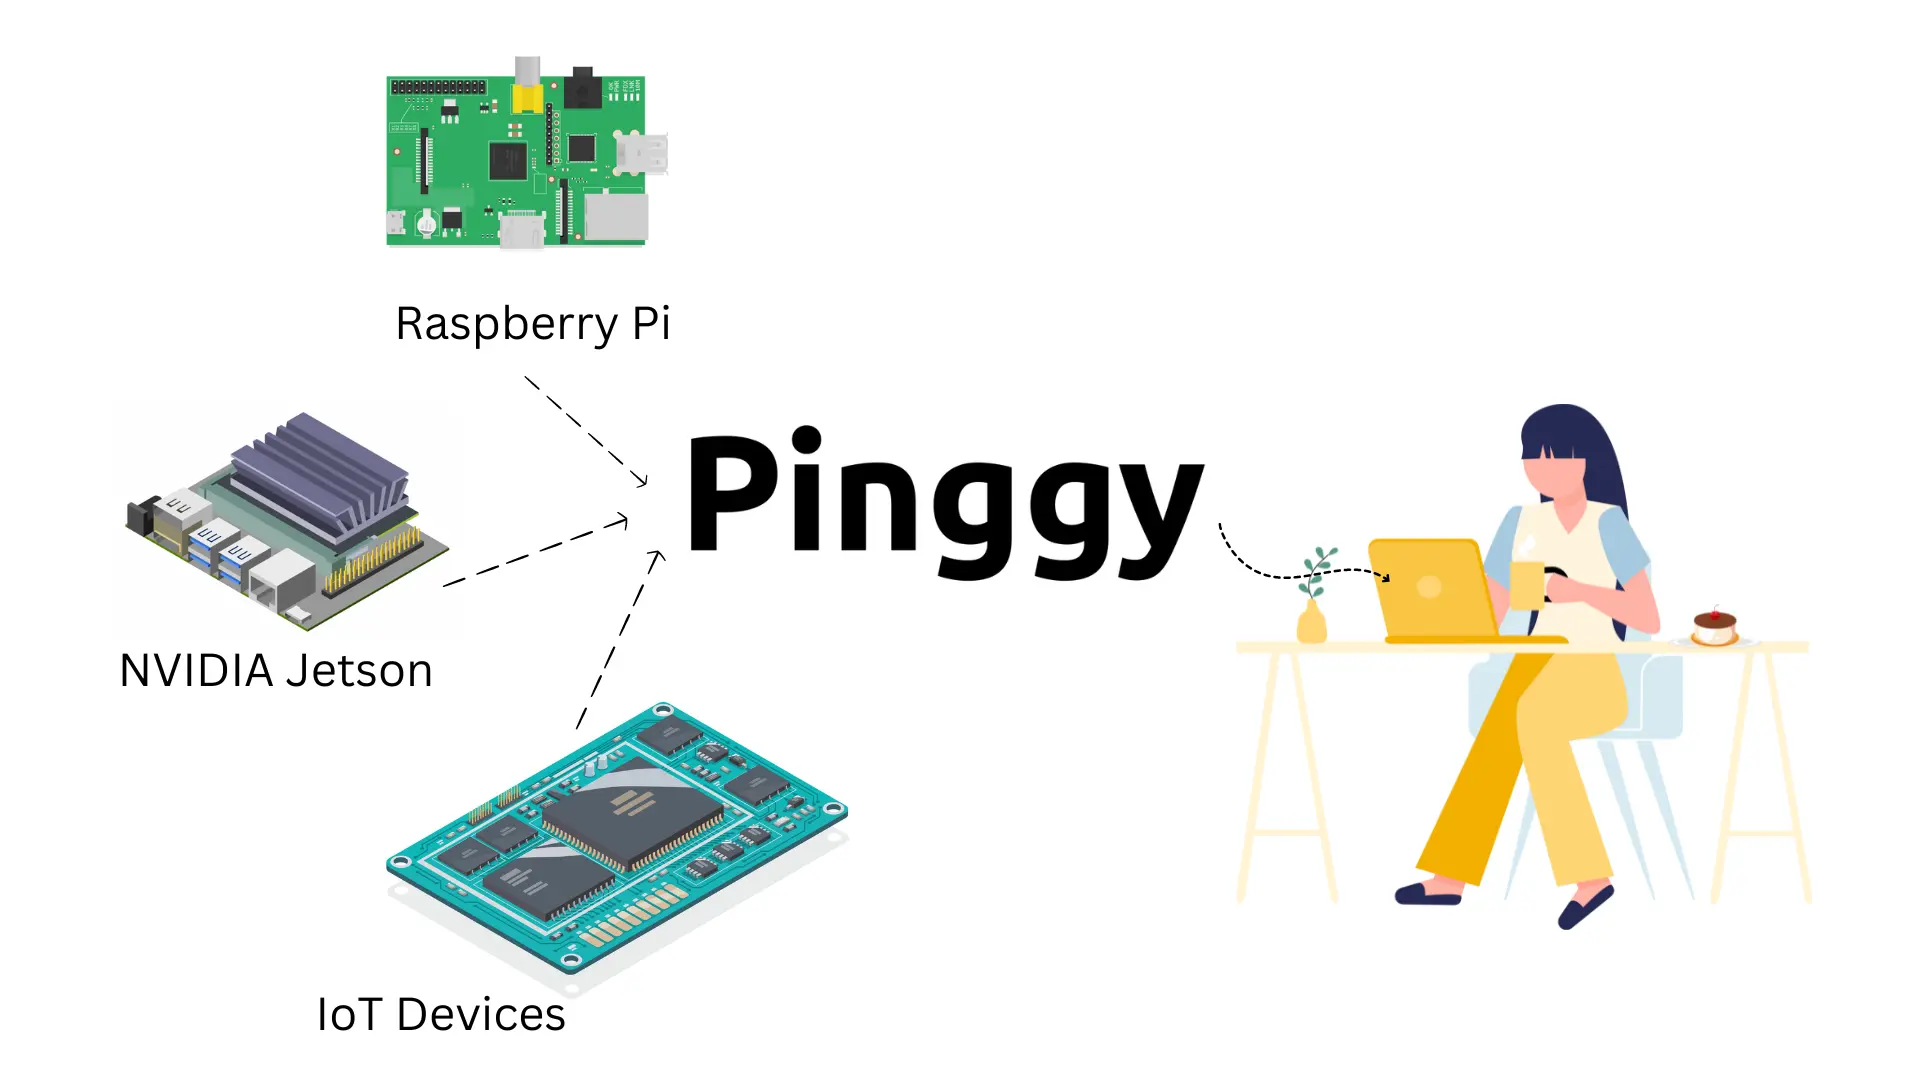
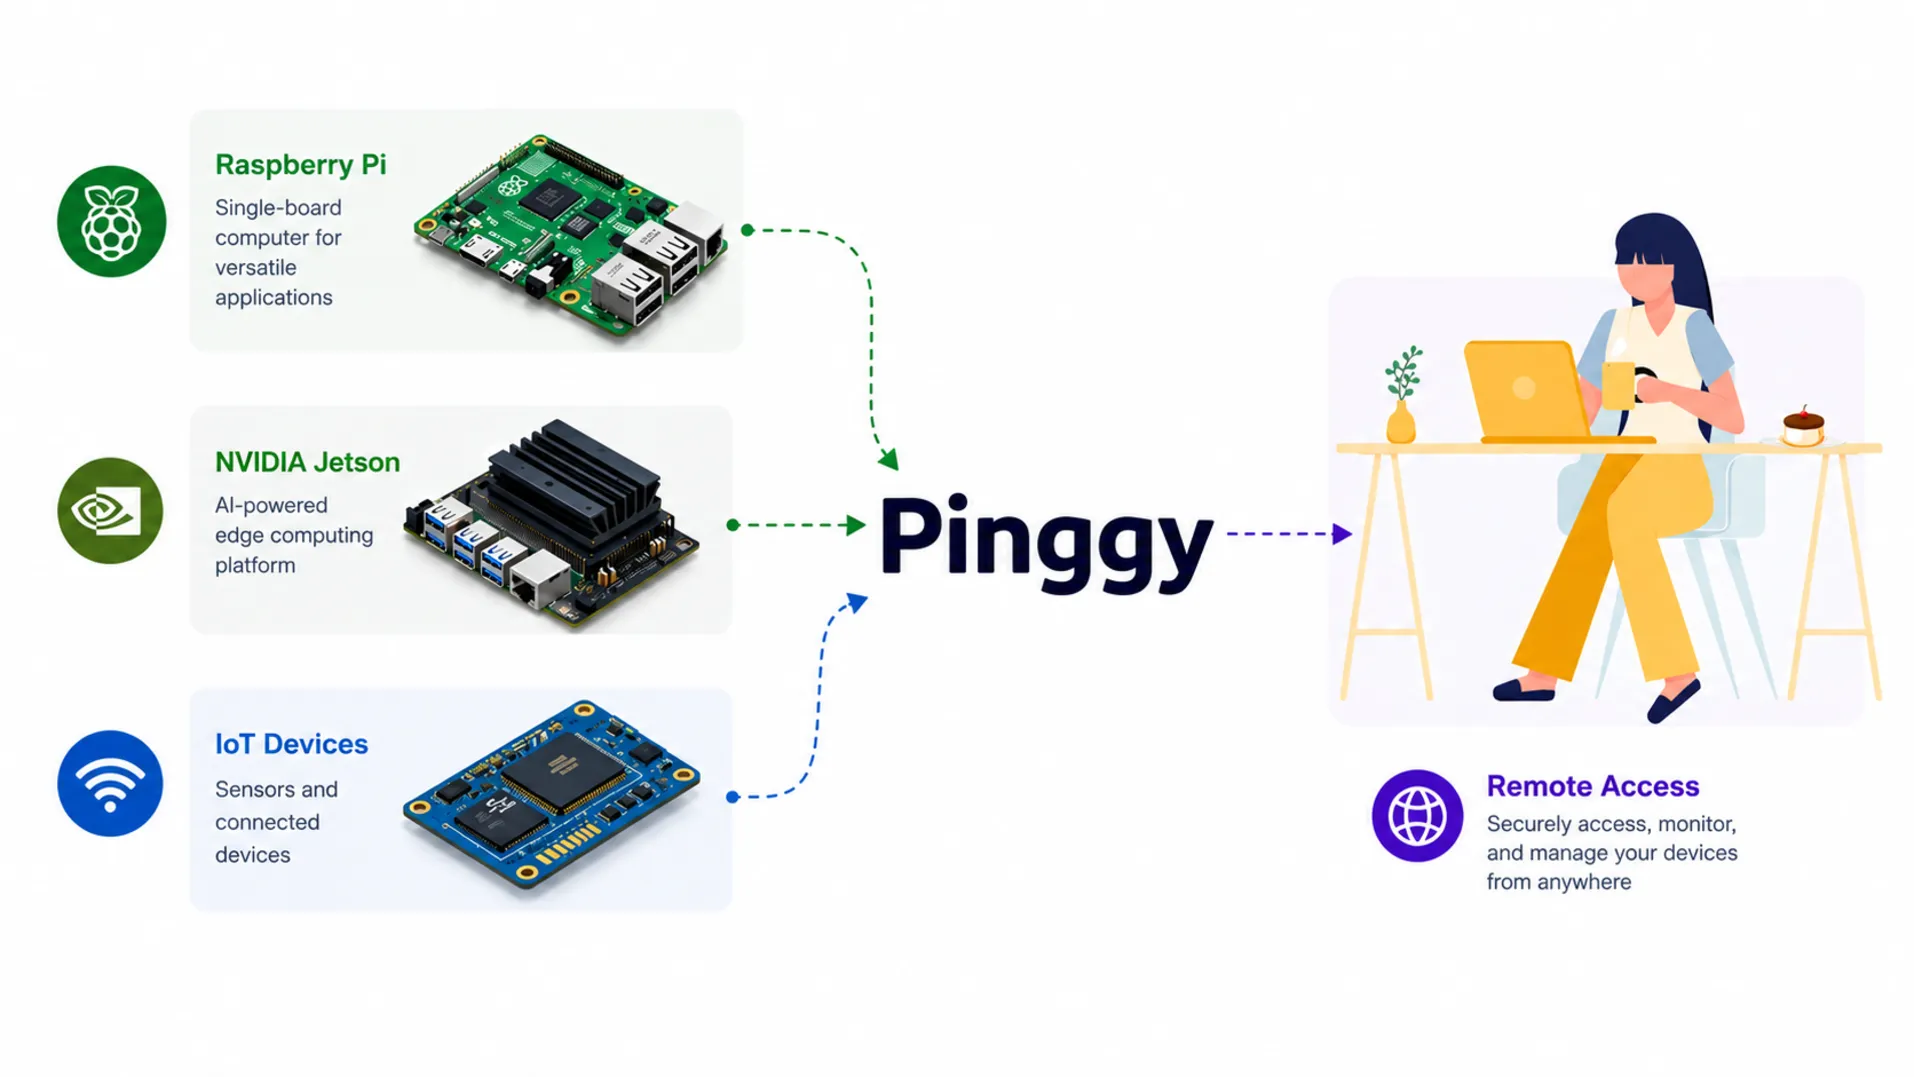
Update blog post on accessing IoT devices with Pinggy and replace images

diff --git a/content/blog/access_iot_devices_from_anywhere.md b/content/blog/access_iot_devices_from_anywhere.md
@@ -1,8 +1,8 @@
 ---
  title: "Access IoT Devices from Anywhere"
- description: "Seamlessly manage and access your IoT devices, including Raspberry Pi, from anywhere with Pinggy. Use a single command to establish secure TCP tunnels."
+ description: "Access and manage your IoT devices including Raspberry Pi from anywhere using Pinggy TCP tunnels - no public IP required."
  date: 2023-06-09T14:15:25+05:30
- lastmod: 2023-08-10T14:15:25+05:30
+ lastmod: 2026-06-19T14:15:25+05:30
  draft: false 
  og_image: "images/iot/head.webp"
  tags: ["guide", "tcp"]
@@ -11,9 +11,11 @@
   - AMP
 ---
 
+{{< llm-context >}}To SSH into an IoT device from anywhere with Pinggy - on the device run `ssh -p 443 -R0:localhost:22 tcp@free.pinggy.io` (SSH listens on port 22), then use the output URL and port like `ssh -p 40527 pi@tljocjkijs.a.pinggy.link` to connect from any machine.{{< /llm-context >}}
+
 {{< image "iot/head.webp" "Access IoT Devices from Anywhere" >}}
 
-You can access your Internet of Things (IoT), devices remotely and manage our devices from anywhere with just one command.
+You can SSH into your IoT devices from anywhere in the world with a single command - no public IP, no port forwarding, no router configuration required.
 
 {{% tldr %}}
 
@@ -30,79 +32,90 @@ You can access your Internet of Things (IoT), devices remotely and manage our de
    `ssh -p 40527 pi@tljocjkijs.a.pinggy.link`
 4. Now, you can securely SSH into your IoT device from anywhere in the world.
 
-5. Sign in to [https://pinggy.io](https://pinggy.io) and use and access token to know your active tunnel address remotely.
+5. Sign in to [https://pinggy.io](https://pinggy.io) and use an access token to get a persistent, named tunnel address.
 
 {{% /tldr %}}
 
-As developers and devops engineers we need remote access to our IoT fleets to monitor, maintain, push updates, and add features to our IoT applications. The ability to access IoT devices from anywhere through ssh is key in this aspect. Using {{< link href="https://pinggy.io" >}}Pinggy{{< /link >}} you can get a TCP tunnel for SSH access, enabling us to connect to our IoT devices from anywhere in the world. This service ensures seamless remote access, simplifying the management of web portals, camera access, and other functionalities, all from virtually anywhere.
+As developers and DevOps engineers we need remote access to IoT fleets to monitor, maintain, push updates, and add features. The ability to SSH into these devices from anywhere is central to that workflow. The problem: most IoT devices sit behind NAT with no public IP, so you can't just open an SSH connection directly.
 
-To remotely access your IoT devices, various methods are available based on the device and manufacturer's setup. Here are popular ways:
+Using {{< link href="https://pinggy.io" >}}Pinggy{{< /link >}} you can get a TCP tunnel for SSH access in seconds. It punches through NAT and gives you a public URL you can connect to from any machine on the internet.
 
-- SSH Remote Access: SSH (Secure Shell) provides a remote terminal to your IoT device. This is a secure and reliable method for remote administration.
+There are a few approaches to remote IoT access:
 
-- RDP for Remote Desktop: Microsoft's RDP (Remote Desktop Protocol) lets you connect and control your IoT using graphical user interface (GUI) over a network.
+- **SSH remote access** - gives you a full terminal on the device. Most reliable for headless devices and scripted automation.
+- **RDP / VNC for remote desktop** - useful when you need the GUI. Higher bandwidth requirement.
+- **Manufacturer web portals** - convenient but often cloud-locked and limited in capability.
 
-- Web Portals: Manufacturers offer web portals for IoT device access and management via a browser. These portals work on internet-connected devices like computers, laptops, and tablets, simplifying remote control.
+This guide focuses on SSH, which covers the majority of IoT use cases.
 
 ## Using Pinggy for SSH from anywhere
 
-With Pinggy.io you can access IoT devices, including Raspberry Pi, Banana Pi, Orange Pi, NanoPi NEO, Odroid, Rock Pi, NVIDIA Jetson Nano, and others, even if they don't have a public IP address. It enables you to establish an SSH connection to your devices from anywhere in the world.
+Pinggy works with Raspberry Pi, Banana Pi, Orange Pi, NanoPi NEO, Odroid, Rock Pi, NVIDIA Jetson Nano, and any Linux-based IoT device. As long as the device has outbound internet access and runs an SSH server, this works.
 
-**Step 1: Create a Tunnel to Your IoT Device**
+**Step 1: Create a tunnel to your IoT device**
 
-On your IoT device, open a terminal or SSH client and run the following command to create a tunnel to port 22 (SSH):
+On your IoT device, open a terminal and run:
 
 ```
 ssh -p 443 -R0:localhost:22 tcp@free.pinggy.io
 ```
 
-This command establishes a secure connection to the Pinggy.io server, creating a tunnel that forwards traffic from the server's port 22 to your IoT device's port 22.
+This connects out to Pinggy's server over port 443 (which is almost never blocked by firewalls) and sets up a tunnel that forwards traffic back to your device's port 22.
 
 {{< pinggytunnel box="true" mode="tcp" tunnelstring="Paste this command to start a tunnel to SSH server:" portstring="SSH server Port" localport="22" webdebugenabled=false keepalive=true tryYourselfText="Customize your command:" >}}{{< /pinggytunnel >}}
 
-**Step 2: Obtain the Public URL**
+**Step 2: Obtain the public URL**
 
-After running the tunneling command, you will receive a public URL in the following format:
+After running the command, Pinggy prints a public URL in this format:
+
 tcp://<span style="background: #fff0f0">tljocjkijs.a.pinggy.link</span>:<span style="background: #e9ecff">40527</span>
 
-Make note of this URL (<span style="background: #fff0f0">tljocjkijs.a.pinggy.link</span>) and port (<span style="background: #e9ecff">40527</span>) as they will be used to establish an SSH connection to your IoT device.
+Note the hostname and port. The URL changes each time you reconnect on the free plan - if you need a stable address, use an access token (covered below).
 
 {{< image "iot/url.webp" "Public URL" >}}
 
-**Step 3: SSH into Your IoT Device**
+**Step 3: SSH into your IoT device**
 
-To SSH into your IoT device, use the SSH command along with the public URL and port number obtained in the previous step. Replace `username` with the username of your IoT device, and the URL and the port `40527` from the output of the pinggy command:
+From any machine with internet access, run:
 
 ```
 ssh -p 40527 username@tljocjkijs.a.pinggy.link
 ```
 
-By executing this command, you establish an SSH connection to the Pinggy.io server, which redirects the traffic to your IoT device through the previously created tunnel. You can now access and control your IoT device as if it were directly connected to your local network.
+Replace `username` with your device's username, and use the hostname and port from your Pinggy output. The connection goes to Pinggy's server, which routes it through the tunnel to your device.
 
-_TIP: the username for Raspberry Pi is usually “pi”._
+_Tip: the default username on Raspberry Pi OS is `pi` on older images and the username you set during setup on newer ones._
 
-## Find public urls to your devices using Pinggy dashboard
+## Persistent tunnel address with the Pinggy dashboard
+
+On the free plan, the public URL changes every time you reconnect. For devices you need to reach regularly, use an access token to get a consistent tunnel tied to your account.
 
 **Step 1: Sign in to Pinggy**
 
-Start by signing in to {{< link href="https://dashboard.pinggy.io" >}}Pinggy dashboard{{< /link >}} using your credentials. If you don't have an account, you can create one for free.
+Go to {{< link href="https://dashboard.pinggy.io" >}}dashboard.pinggy.io{{< /link >}} and sign in. Create a free account if you don't have one.
 
-**Step 2: Obtain your Access Token**
+**Step 2: Get your access token**
 
-On the Pinggy dashboard you'll find your access token, which is a unique identifier associated with your account and devices. Make a note of this token as you'll need it later.
+Your access token is on the dashboard home. Copy it.
 
-**Step 3: Use the access token to create the Pinggy tunnel**
-
-On your IoT device, open a terminal or SSH client and run the following command to create a tunnel to port 22 (SSH) using your access token:
+**Step 3: Create the tunnel with your token**
 
 ```
-ssh -p 443 -R0:localhost:22 access_token+tcp@pro.pinggy.io
+ssh -p 443 -R0:localhost:22 <access_token>+tcp@pro.pinggy.io
 ```
 
-Replace `access_token` with your own access token obtained from pinggy dashboard.
+Replace `<access_token>` with the token from the dashboard. With a token, you can also see the active tunnel URL from the dashboard without needing to be on the device - useful when you've forgotten what address the device is on.
+
+## Remote desktop access
+
+If you need GUI access rather than a terminal, the same approach works. Start a VNC or RDP server on your device, then tunnel to that port instead:
+
+```
+ssh -p 443 -R0:localhost:5900 tcp@free.pinggy.io
+```
+
+(Port 5900 is the default VNC port.) Connect with your VNC viewer using the Pinggy URL and port.
 
 ## Conclusion
 
-By leveraging Pinggy.io's TCP tunneling capabilities, you can securely connect to your IoT devices from anywhere.
-
-If you want remote desktop access for remotely operating the GUI, you can just create a tunnel to your VNC / RDP server's port.
+Pinggy gives you SSH access to IoT devices from anywhere with no router changes and no static IP. The free plan works fine for occasional access; a paid plan or access token gives you a stable URL for devices you connect to regularly.
